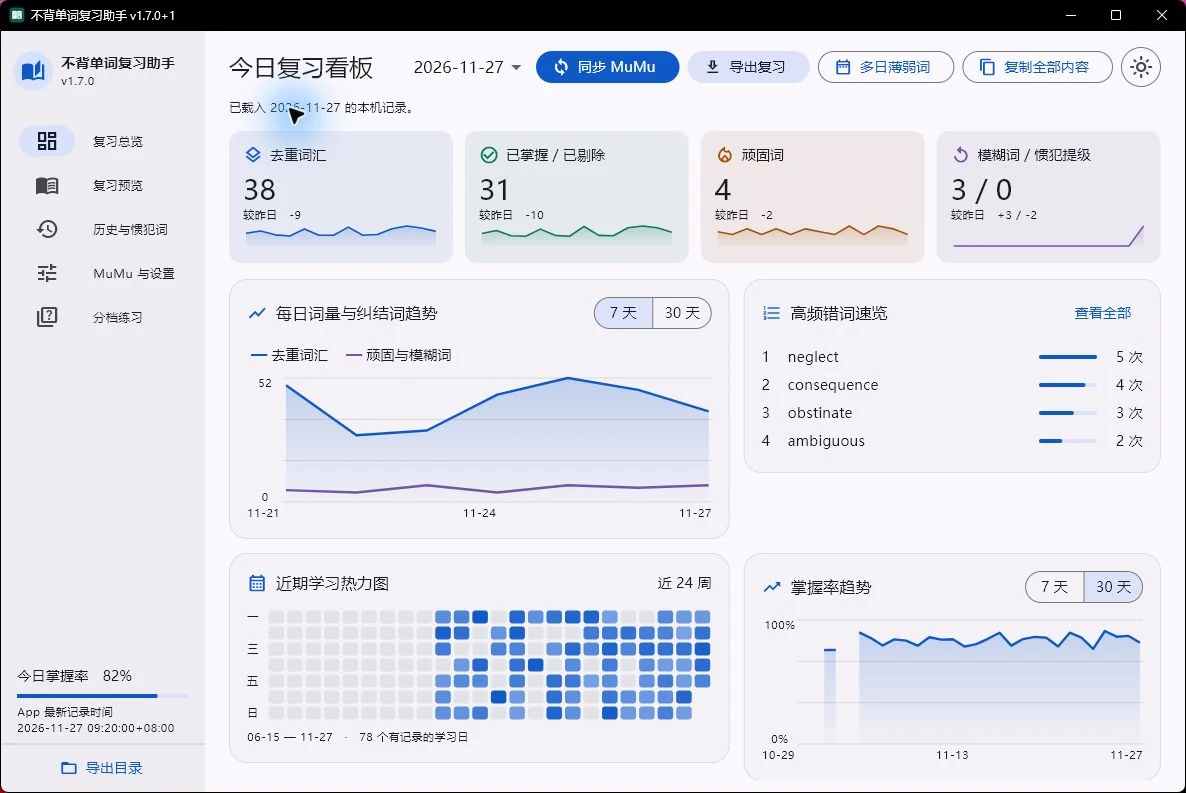
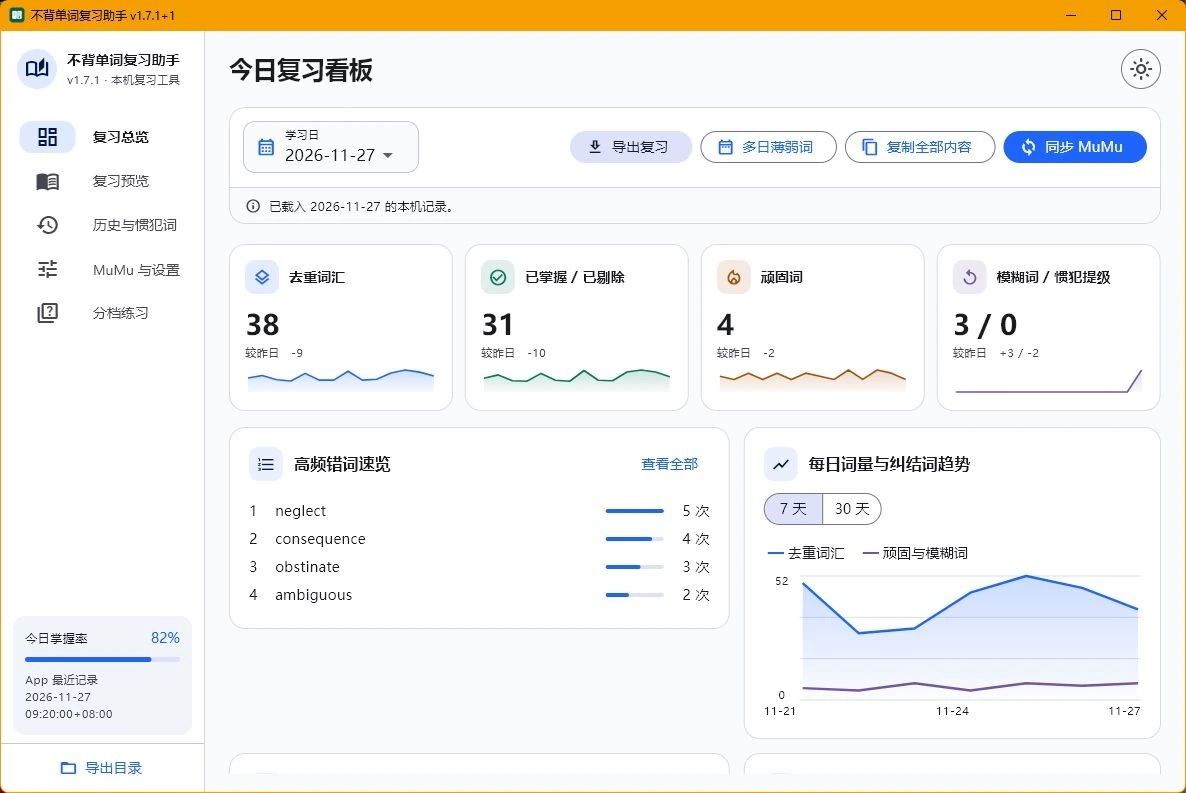
Refresh homepage with the v1.7.1 Windows screenshot

diff --git a/docs/index.html b/docs/index.html
@@ -11,7 +11,7 @@
 <meta property="og:description" content="同步学习记录，导出专属薄弱词表，再交给你常用的 AI。">
 <meta property="og:type" content="website">
 <meta property="og:url" content="https://zhitai0529.github.io/bbdc-to-ai/">
-<meta property="og:image" content="https://zhitai0529.github.io/bbdc-to-ai/assets/desktop-overview.webp">
+<meta property="og:image" content="https://zhitai0529.github.io/bbdc-to-ai/assets/desktop-overview.webp?v=1.7.1">
 <link rel="canonical" href="https://zhitai0529.github.io/bbdc-to-ai/">
 <link rel="icon" href="assets/favicon-64.png" sizes="64x64">
 <link rel="apple-touch-icon" href="assets/apple-touch-icon.png">
@@ -92,9 +92,9 @@
 
       <figure class="hero-screenshot">
         <div class="screenshot-frame">
-          <img src="assets/desktop-overview.webp" width="1186" height="793" alt="不背单词复习助手 Windows 实机界面，展示今日复习看板、高频错词、学习热力图和掌握率趋势" fetchpriority="high" decoding="async">
+          <img src="assets/desktop-overview.webp?v=1.7.1" width="1186" height="793" alt="不背单词复习助手 v1.7.1 的 Windows 复习看板，显示合成词汇统计、高频错词与每日词量趋势" fetchpriority="high" decoding="async">
         </div>
-        <figcaption><span><span class="caption-dot" aria-hidden="true"></span>Windows 实机截图 · 合成学习数据</span><span class="caption-features">复习总览 / 高频错词 / 学习热力图</span></figcaption>
+        <figcaption><span><span class="caption-dot" aria-hidden="true"></span>Windows 实机截图 · v1.7.1 · 合成学习数据</span><span class="caption-features">复习总览 / 高频错词 / 每日词量趋势</span></figcaption>
       </figure>
       <p class="privacy-note">
         <svg viewBox="0 0 24 24" aria-hidden="true"><rect x="5" y="10" width="14" height="11" rx="2"/><path d="M8 10V7a4 4 0 0 1 8 0v3"/></svg>

diff --git a/README.md b/README.md
@@ -6,7 +6,7 @@
 
 [下载 Windows 版](https://github.com/zhitai0529/bbdc-to-ai/releases/latest) · [看使用效果](https://zhitai0529.github.io/bbdc-to-ai/#case-study) · [首次配置](#首次配置-mumu)
 
-![Windows 实机的复习看板，显示合成学习数据](docs/assets/desktop-overview.webp)
+![v1.7.1 Windows 实机复习看板，显示合成学习数据](docs/assets/desktop-overview.webp)
 
 ## 能做什么
 
